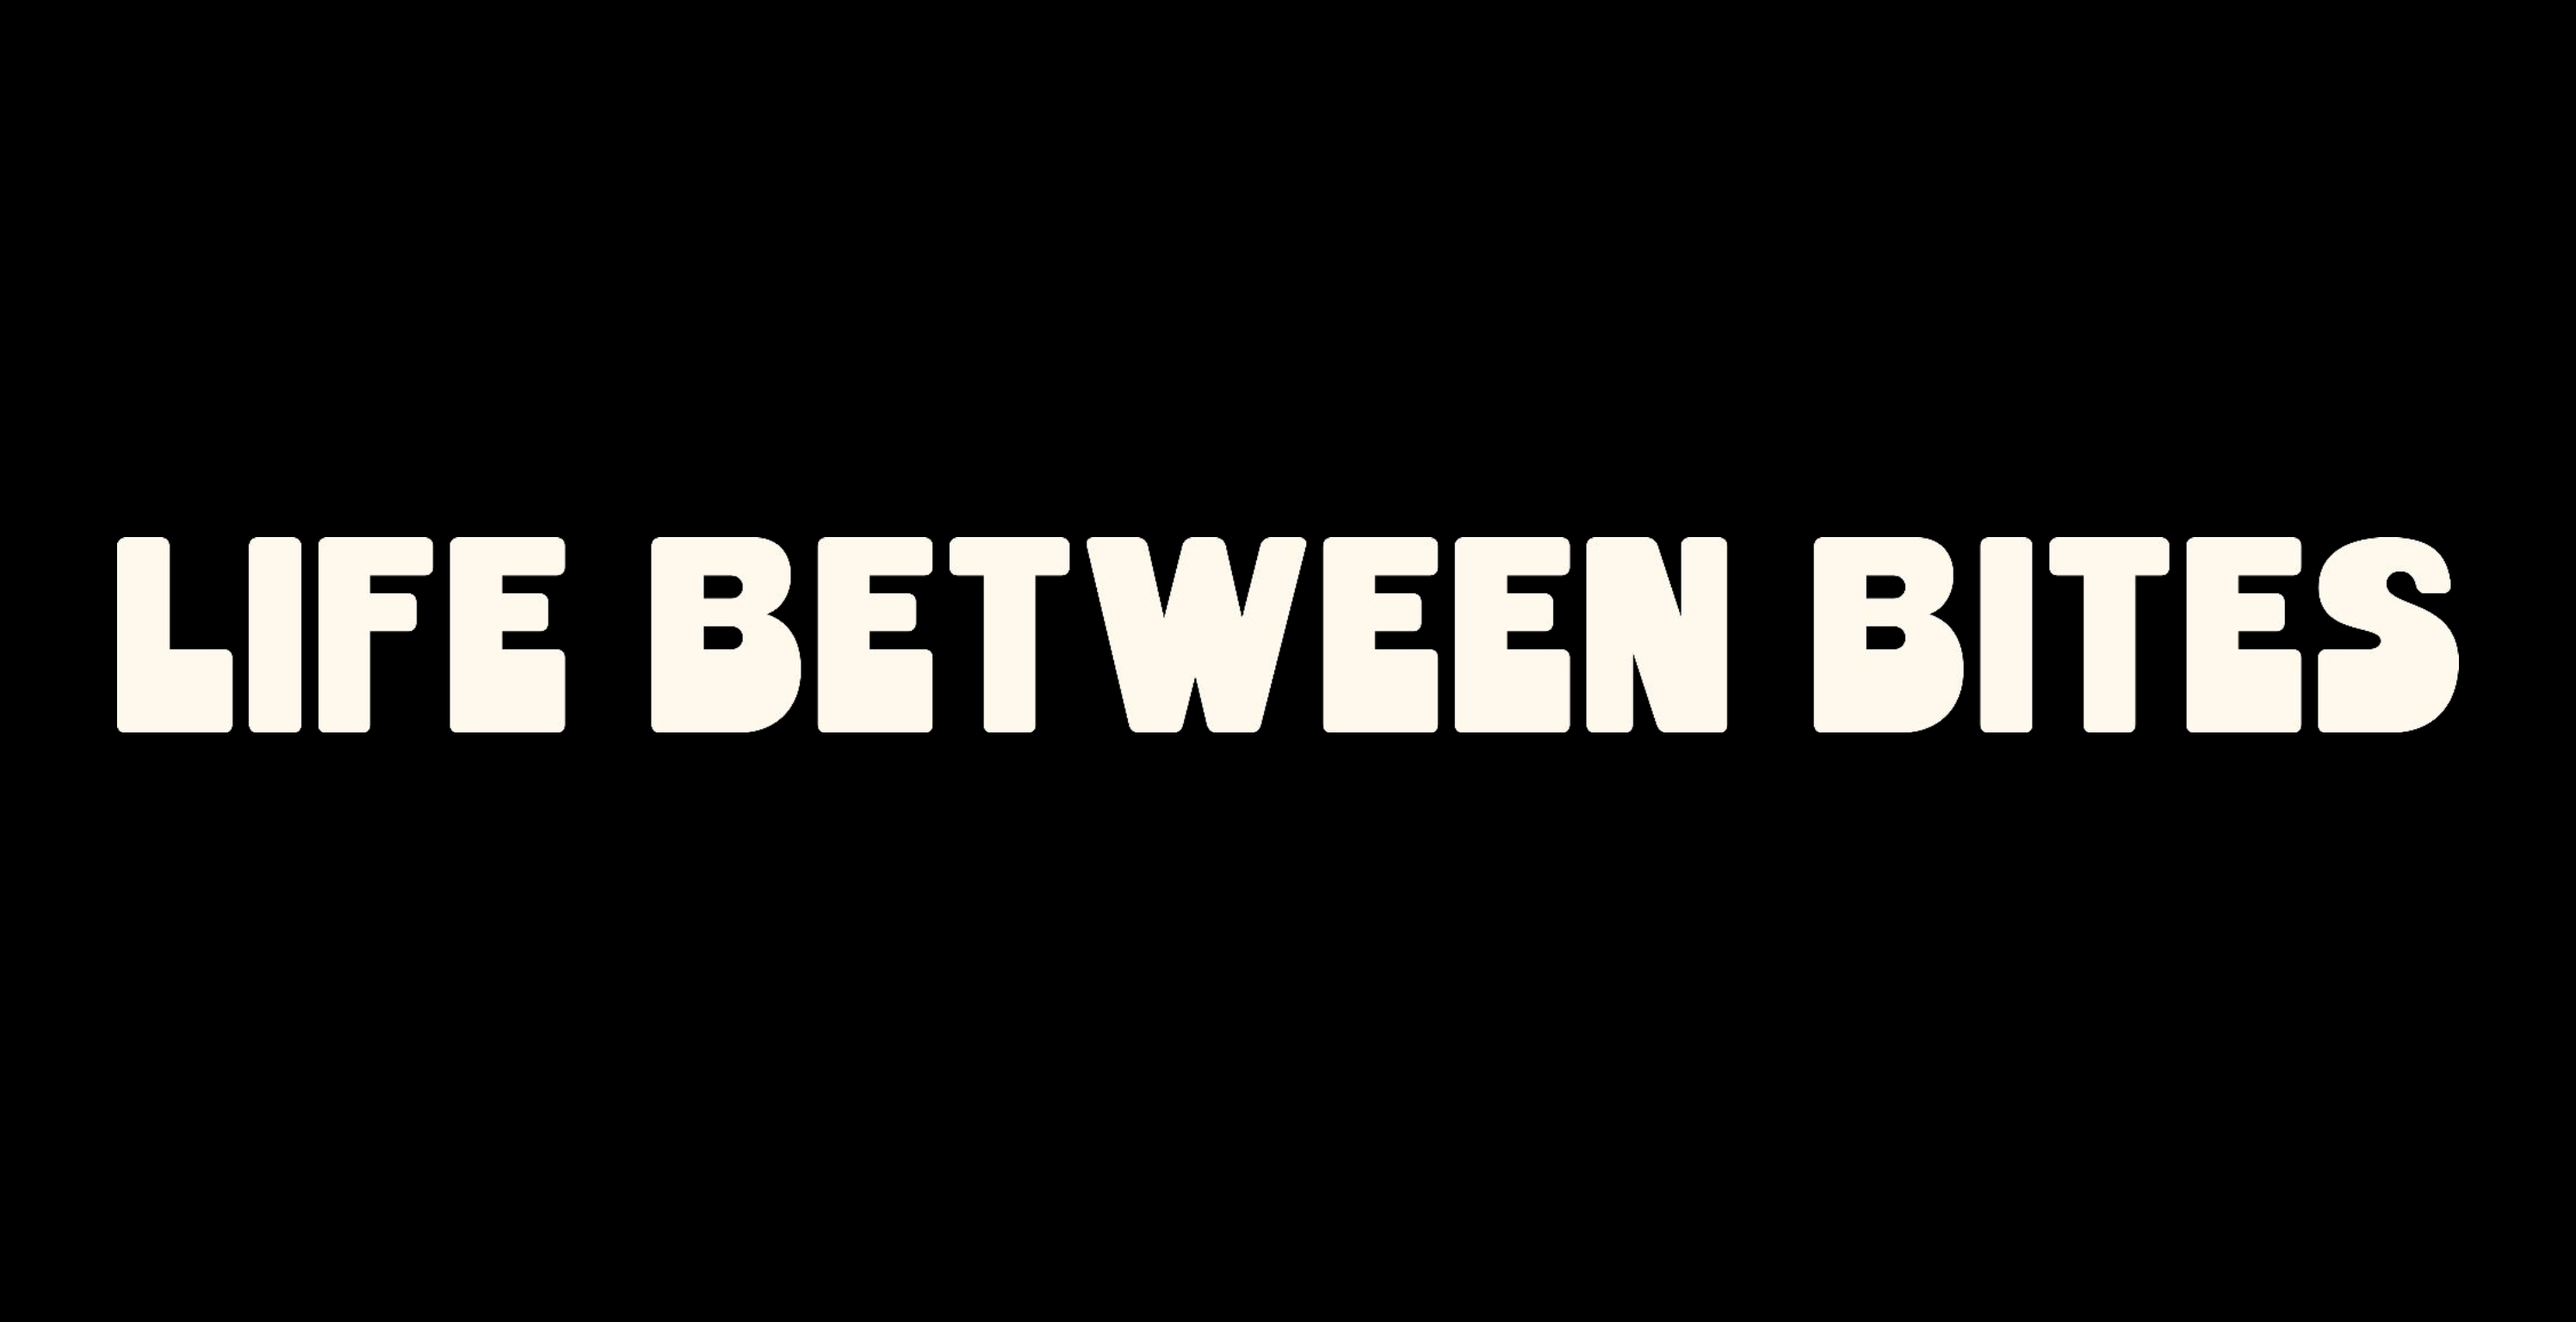
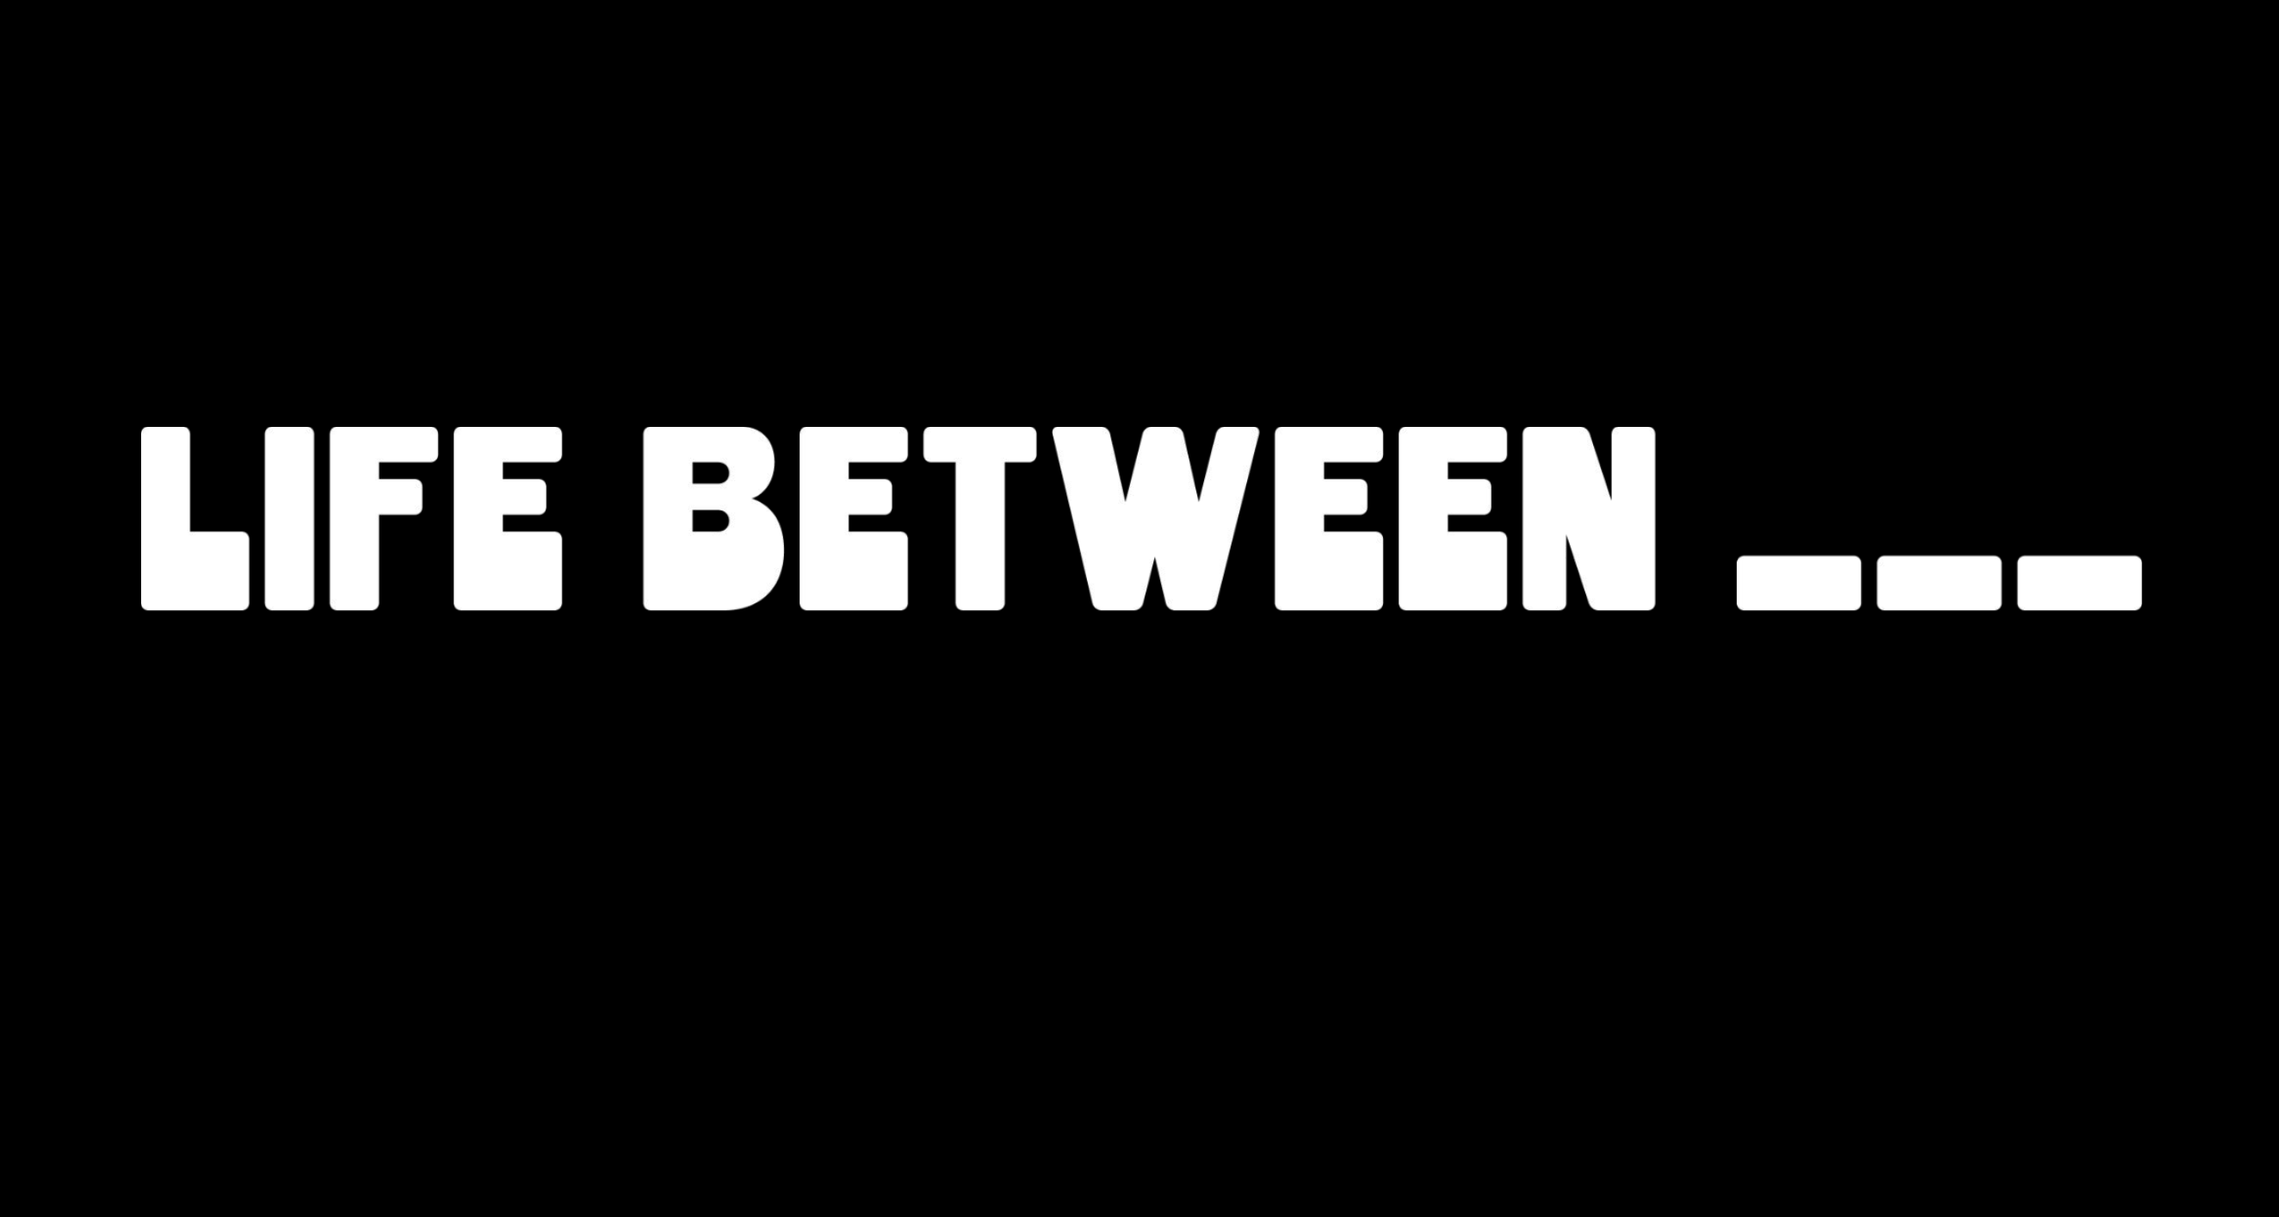
Rename Life Between Bites to Life Between ___, update cover image
Replaced the cover image with the new title card and removed the
'(PHASE 1)' text from it by painting over that region with the card's
solid black background.

Changed region(s): [[0.031, 0.3423, 0.96, 0.5601]]

diff --git a/lifebetweenbites.html b/lifebetweenbites.html
@@ -3,7 +3,7 @@
 <head>
   <meta charset="UTF-8">
   <meta name="viewport" content="width=device-width, initial-scale=1.0">
-  <title>Life Between Bites — Linden Hansen</title>
+  <title>Life Between ___ — Linden Hansen</title>
   <link rel="preconnect" href="https://fonts.googleapis.com">
   <link rel="preconnect" href="https://fonts.gstatic.com" crossorigin>
   <link href="https://fonts.googleapis.com/css2?family=IM+Fell+English:ital@0;1&display=swap" rel="stylesheet">
@@ -286,20 +286,20 @@
     </div>
 
     <div class="col-mid">
-      <img src="sp-big-ideas/idea-2/bubbles.png" alt="Life Between Bites bubbles">
-      <img src="sp-big-ideas/idea-2/bath-time.png" alt="Life Between Bites bath time">
+      <img src="sp-big-ideas/idea-2/bubbles.png" alt="Life Between ___ bubbles">
+      <img src="sp-big-ideas/idea-2/bath-time.png" alt="Life Between ___ bath time">
       <div class="grid-layout">
-        <img class="cell-big" src="sp-big-ideas/idea-2/crossword.png" alt="Life Between Bites crossword">
-        <img class="cell-top-right" src="sp-big-ideas/idea-2/puddles.png" alt="Life Between Bites puddles">
-        <img class="cell-bottom-right" src="sp-big-ideas/idea-2/bumps.png" alt="Life Between Bites bumps">
+        <img class="cell-big" src="sp-big-ideas/idea-2/crossword.png" alt="Life Between ___ crossword">
+        <img class="cell-top-right" src="sp-big-ideas/idea-2/puddles.png" alt="Life Between ___ puddles">
+        <img class="cell-bottom-right" src="sp-big-ideas/idea-2/bumps.png" alt="Life Between ___ bumps">
       </div>
-      <img src="sp-big-ideas/idea-2/idea2social.png" alt="Life Between Bites social">
-      <img src="sp-big-ideas/idea-2/washes.png" alt="Life Between Bites washes">
+      <img src="sp-big-ideas/idea-2/idea2social.png" alt="Life Between ___ social">
+      <img src="sp-big-ideas/idea-2/washes.png" alt="Life Between ___ washes">
     </div>
 
     <div class="col-right">
       <div class="project-desc">
-        <p>Life Between Bites is our second big idea.</p>
+        <p>Life Between ___ is our second big idea.</p>
         <p>Somewhere along the way, protein forgot to be joyful.</p>
         <p>As consumers seek options that offer more than macros, we celebrate the many facets of full lives—energy, connection, and eccentricity—that Singing Pastures powers.</p>
         <p>Protein culture assumes one objective, but she has many. We support her every moment.</p>

diff --git a/singingpastures.html b/singingpastures.html
@@ -270,8 +270,8 @@
         <img src="sp-big-ideas/craft-the-crave.png" alt="Craft the Crave">
       </a>
 
-      <a href="lifebetweenbites.html" data-label="Life Between Bites">
-        <img src="sp-big-ideas/life-between-bites.png" alt="Life Between Bites">
+      <a href="lifebetweenbites.html" data-label="Life Between ___">
+        <img src="sp-big-ideas/life-between-bites.png" alt="Life Between ___">
       </a>
 
       <a href="jointhechorus.html" data-label="Join the Chorus">
